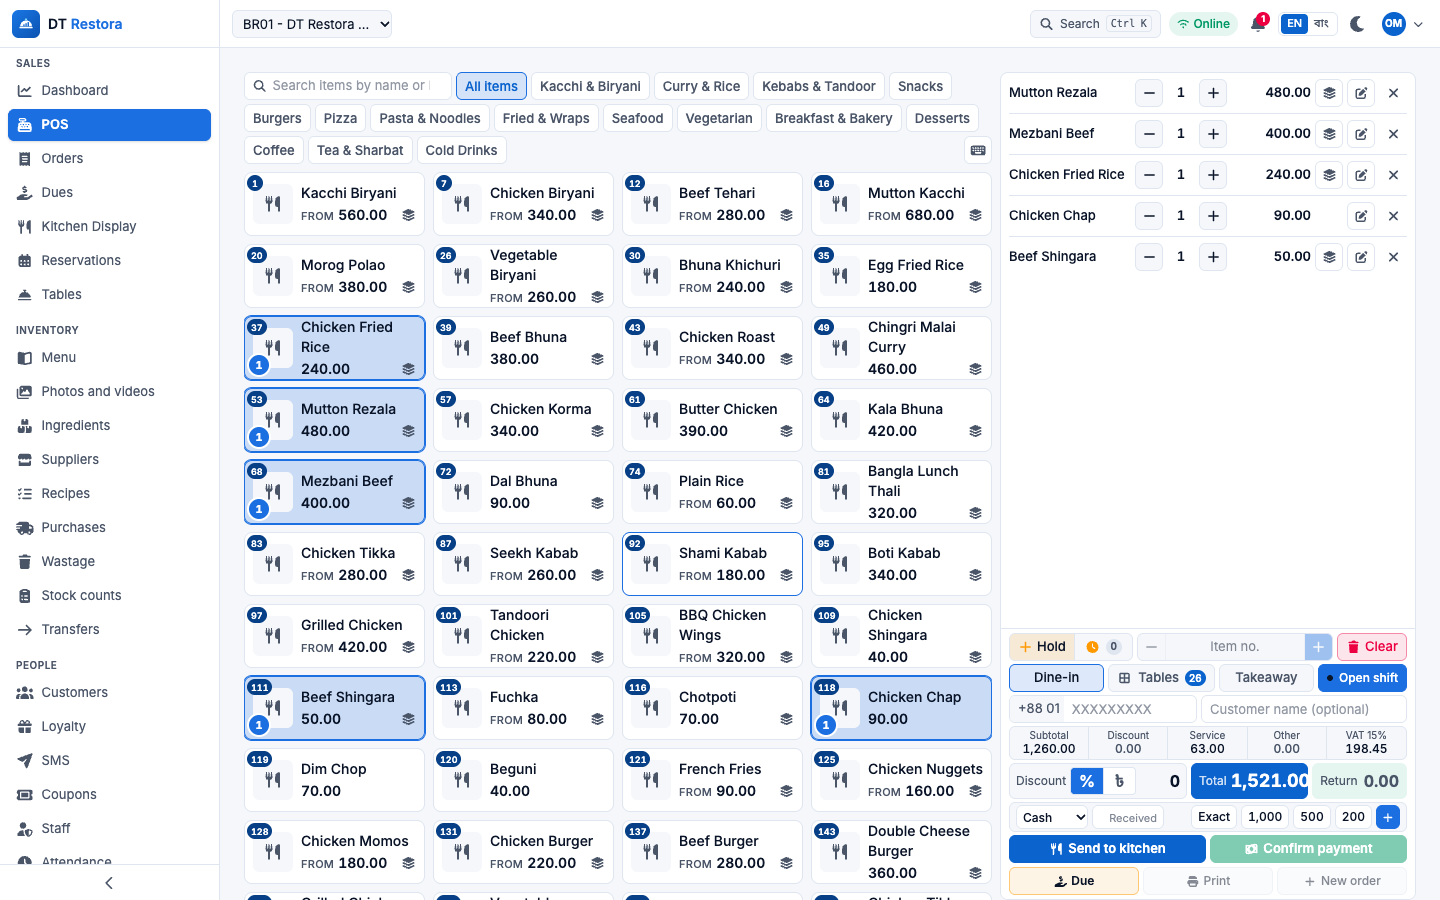
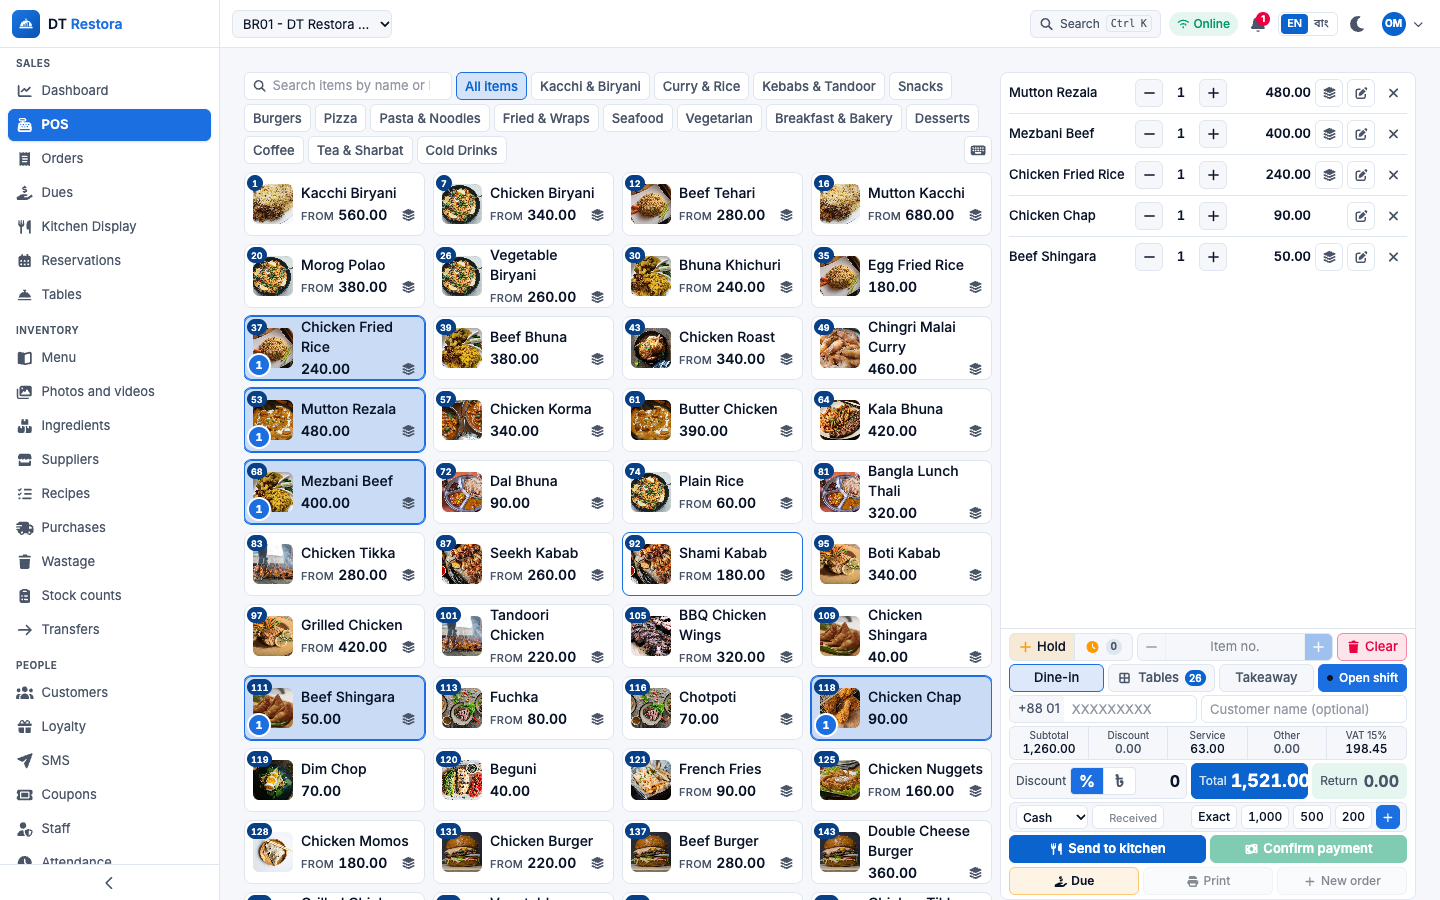
Marketing: product photos (storage link fix, png copies) and refreshed shots
- serve_marketing.sh points public/storage at this checkout while serving and restores it
- prepare_marketing_db.sh writes png copies of demo photos and repoints menu/media rows
- refreshed POS, menu, photos and website screenshots; workflow notes

diff --git a/marketing-assets/november-2026/reel/REEL-WORKFLOW.md b/marketing-assets/november-2026/reel/REEL-WORKFLOW.md
@@ -95,6 +95,7 @@ Add the reel's `video/RNN-draft.mp4`, scripts, screenshots, seeder and capture c
 - **The kitchen page runs out of memory** on the full 33,000-order demo with PHP's default 128 MB. `serve_marketing.sh` raises the limit; the real page may need a product fix.
 - **One PHP worker hangs** on pages that poll. `serve_marketing.sh` starts eight.
 - **`public/hot`:** a stale Vite marker breaks asset loading; the server script moves it aside and restores it on exit.
+- **Product photos missing (icon placeholders):** `web-app/public/storage` can point at another checkout, so every `/storage/demo/*` photo 404s. `serve_marketing.sh` repoints it while serving and restores it on exit. The 104 demo photos ship in `web-app/database/seeders/assets/demo` (credits in `CREDITS.md`); `prepare_marketing_db.sh` also writes PNG copies and points the marketing database at them. Nothing needs downloading.
 - **Percent signs in SMS text:** the seeder uses `str_replace`, not `sprintf`.
 - **Timezones:** the app stores UTC and shows Asia/Dhaka. Build Dhaka times with `Carbon::now('Asia/Dhaka')...->utc()`.
 - **Recipe editor shot:** search for a specific item (`Kacchi Biryani`) before clicking Edit recipe, so it opens with ingredients.
